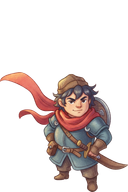
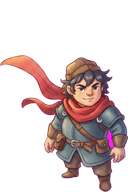
Mara and Ilya with empty hands; walks redone when a look changes
Held items show what a player wields, so the walking looks no longer
carry a painted staff, sword or shield. Both anchors were painted again
from their own pictures with only that change (`npm run anchors --
--edit`, which sends the anchor as the subject rather than as a style
reference). The walk painter remembers which picture each look's walks
were made from and walks it again when that picture changes; the hand
finder fingerprints pixels, so updated shipped art is looked at again.

Claude-Session: https://claude.ai/code/session_01R4ALLanxqUEA9N9eW9ppqX

diff --git a/packages/server/src/tools/generate-anchors.ts b/packages/server/src/tools/generate-anchors.ts
@@ -5,6 +5,8 @@
 //   npm run anchors -- --limit 5
 //   npm run anchors -- --process-only   redo post-processing, no generation
 //   npm run anchors -- --model gemini-3.1-flash-image   (default: the model chosen in God's View)
+//   npm run anchors -- --only player-mara --edit "empty hands, no staff"
+//       paints an existing anchor again from its own picture with one change
 //
 // The provider's image is kept in raw/; the game copy next to it has the key
 // background removed (sprites) or is made seamless (tiles, with a 4x4 preview
@@ -18,7 +20,7 @@ import { ANCHORS } from '../assets/anchors.ts';
 import { BIOME_KIT, type KitAsset } from '../assets/kit.ts';
 import { GeminiImageProvider } from '../assets/gemini.ts';
 import { makeSeamless, removeKeyBackground, tileGrid } from '../assets/postprocess.ts';
-import { STYLE_VERSION, buildPrompt } from '../assets/style.ts';
+import { BASE_PROMPT, SPRITE_FRAMING, STYLE_VERSION, buildPrompt } from '../assets/style.ts';
 import { savedImageModel } from './saved-model.ts';
 import sharp from 'sharp';
 
@@ -33,6 +35,8 @@ const dryRun = flag('dry-run');
 const force = flag('force');
 const processOnly = flag('process-only');
 const only = value('only');
+// One change to an existing anchor, keeping everything else about it.
+const edit = value('edit');
 const limit = Number(value('limit') ?? Infinity);
 // Approximate price per image; confirm against the provider's price page.
 const pricePerImage = Number(process.env.IMAGE_PRICE_USD ?? 0.04);
@@ -71,24 +75,28 @@ if (processOnly) {
 let made = 0;
 for (const anchor of selected) {
   const raw = resolve(rawDir, `${anchor.id}.png`);
-  if (!force && (await exists(raw))) {
+  if (!force && !edit && (await exists(raw))) {
     console.log(`skip ${anchor.id} (exists; --force to redo)`);
     continue;
   }
-  const prompt = buildPrompt(anchor);
+  const prompt = edit ? editPrompt(edit) : buildPrompt(anchor);
   try {
     // Kit items are painted beside their biome's approved anchors (the raw
     // provider images, magenta background included) so the style matches.
-    const references = await Promise.all((anchor.references ?? []).map(async (ref) => ({
-      mimeType: 'image/png', data: await readFile(resolve(rawDir, `${ref}.png`)),
-    })));
-    const image = await provider.generate({ prompt, references });
+    // An edit is painted from the anchor's own picture instead.
+    const references = edit
+      ? [{ mimeType: 'image/png', data: await readFile(raw) }]
+      : await Promise.all((anchor.references ?? []).map(async (ref) => ({
+        mimeType: 'image/png', data: await readFile(resolve(rawDir, `${ref}.png`)),
+      })));
+    const image = await provider.generate({ prompt, references, ...(edit ? { edit: true } : {}) });
     await writeFile(raw, image.data);
     await writeFile(resolve(outDir, `${anchor.id}.json`), JSON.stringify({
       id: anchor.id,
       description: anchor,
       prompt,
-      references: anchor.references,
+      references: edit ? [`${anchor.id} (before)`] : anchor.references,
+      ...(edit ? { edit } : {}),
       provider: provider.id,
       model: provider.model,
       styleVersion: STYLE_VERSION,
@@ -115,6 +123,16 @@ async function processAnchor(anchor: (typeof ALL)[number], raw: Buffer): Promise
   const { png, clean } = await removeKeyBackground(raw, undefined, { holes: anchor.kind === 'prop' || anchor.kind === 'effect' });
   await writeFile(out, png);
   if (!clean) console.warn(`warning ${anchor.id}: background is not one flat colour; check it or regenerate`);
+}
+
+/** Paints the picture given again, the same in every way but one. */
+function editPrompt(change: string): string {
+  return [
+    BASE_PROMPT,
+    SPRITE_FRAMING,
+    'Paint the character in the reference picture again, exactly the same: face, hair, clothes, colours, proportions, pose, size and framing.',
+    `Change only this: ${change}.`,
+  ].join('\n');
 }
 
 async function cropCenter(png: Buffer, share: number): Promise<Buffer> {

diff --git a/packages/server/src/hand-finder.ts b/packages/server/src/hand-finder.ts
@@ -1,3 +1,4 @@
+import { createHash } from 'node:crypto';
 import { mkdir, readFile, writeFile } from 'node:fs/promises';
 import { resolve } from 'node:path';
 import type { ArtPoints, ArtPointsManifest } from '@co-mmo/shared';
@@ -35,7 +36,7 @@ export interface HandFinderOptions {
 }
 
 interface Found extends ArtPoints {
-  /** The file the points were found in. */
+  /** The file the points were found in, and a fingerprint of its pixels. */
   from: string;
 }
 
@@ -89,11 +90,13 @@ export class HandFinder {
   private async run(): Promise<void> {
     await this.load();
     for (const source of await this.options.sources()) {
-      if (this.found[source.id]?.from === source.file) continue;
-      const model = this.options.model();
-      if (!model || this.options.paused()) return;
       const picture = await source.read().catch(() => undefined);
       if (!picture) continue;
+      // The same file name can hold a new picture (shipped art updated with the game), so its pixels count too.
+      const from = `${source.file}#${createHash('sha1').update(picture).digest('hex').slice(0, 12)}`;
+      if (this.found[source.id]?.from === from) continue;
+      const model = this.options.model();
+      if (!model || this.options.paused()) return;
       const pictures = source.frames > 1 ? await stripFrames(picture, source.frames) : [picture];
       const points = [];
       for (const frame of pictures) {
@@ -102,8 +105,8 @@ export class HandFinder {
         points.push(point ?? null);
       }
       this.found[source.id] = source.kind === 'hands'
-        ? { from: source.file, hands: points }
-        : { from: source.file, ...(points[0] ? { grip: points[0] } : {}) };
+        ? { from, hands: points }
+        : { from, ...(points[0] ? { grip: points[0] } : {}) };
       await mkdir(this.options.artDir, { recursive: true });
       await writeFile(this.file, JSON.stringify(this.found, null, 2));
     }

diff --git a/packages/server/test/held.test.ts b/packages/server/test/held.test.ts
@@ -46,7 +46,7 @@ describe('the hand finder', () => {
   it('finds a hand in every walk frame and an item\'s grip once, and looks again only at pictures painted again', async () => {
     const artDir = await mkdtemp(join(tmpdir(), 'co-mmo-points-'));
     const strip = await picture(256, 192);
-    const sword = await picture(128, 128);
+    let sword = await picture(128, 128);
     const eye = fakeEye(['{"point": [800, 600]}', '{"point": null}', '{"point": [700, 300]}', '{"point": [810, 610]}', '{"point": [820, 620]}']);
     let walkFile = 'wished-art/walks/player-mara-walk-front.png';
     const spent: number[] = [];
@@ -69,7 +69,7 @@ describe('the hand finder', () => {
     });
     expect(eye.asked[2]!.messages[0]!.content).toMatch(/handle/);
     expect(spent).toHaveLength(3);
-    expect(JSON.parse(await readFile(join(artDir, 'points.json'), 'utf8'))['item-wooden-sword'].from).toBe('art/item-wooden-sword.png');
+    expect(JSON.parse(await readFile(join(artDir, 'points.json'), 'utf8'))['item-wooden-sword'].from).toMatch(/^art\/item-wooden-sword\.png#[0-9a-f]{12}$/);
 
     // Nothing new: nothing asked. The walk painted again: its frames are looked at again.
     await finder.start();
@@ -78,6 +78,10 @@ describe('the hand finder', () => {
     await finder.start();
     expect(eye.asked).toHaveLength(5);
     expect((await finder.manifest())['player-mara-walk-front']).toEqual({ hands: [[0.61, 0.81], [0.62, 0.82]] });
+    // A new picture under the same file name (shipped art updated with the game) is looked at again too.
+    sword = await picture(64, 128);
+    await finder.start();
+    expect(eye.asked).toHaveLength(6);
 
     // Kept on disk for the next start.
     const again = new HandFinder({ artDir, model: () => undefined, sources: async () => [], paused: () => false, spend: () => {} });

diff --git a/packages/server/src/assets/anchors.ts b/packages/server/src/assets/anchors.ts
@@ -111,15 +111,16 @@ export const ANCHORS: (AssetDescription & { id: string; references?: string[] })
     id: 'player-mara', name: 'Mara', kind: 'player', biome: 'any',
     silhouetteHook: 'oversized floppy wizard hat with a drooping tip',
     body: 'small, 3 heads tall, round face, cheerful stance, facing the viewer',
-    materials: ['cloth', 'wood'], colors: { main: 'moss green', secondary: 'cream', accent: 'rose hat band' },
-    details: ['short russet bob', 'crooked wooden staff with a leaf sprouting at the top', 'brown boots'], mood: 'curious, warm',
+    materials: ['cloth'], colors: { main: 'moss green', secondary: 'cream', accent: 'rose hat band' },
+    // Empty hands: what a player wears and wields is shown in their hand by the game (held items).
+    details: ['short russet bob', 'empty hands, carrying nothing', 'brown boots'], mood: 'curious, warm',
   },
   {
     id: 'player-ilya', name: 'Ilya', kind: 'player', biome: 'any',
     silhouetteHook: 'long red scarf trailing behind',
     body: 'small, 3 heads tall, sturdy build, confident stance, facing the viewer',
-    materials: ['leather', 'iron'], colors: { main: 'slate blue', secondary: 'brown leather', accent: 'red scarf' },
-    details: ['short sword at the hip', 'messy dark hair', 'round shield on the back'], mood: 'brave, playful',
+    materials: ['leather', 'cloth'], colors: { main: 'slate blue', secondary: 'brown leather', accent: 'red scarf' },
+    details: ['messy dark hair', 'empty hands and no weapon, shield or pack', 'leather belt with a small pouch'], mood: 'brave, playful',
   },
   {
     id: 'item-bible', name: 'The Bible', kind: 'item', biome: 'any',

diff --git a/packages/server/src/walk-painter.ts b/packages/server/src/walk-painter.ts
@@ -1,3 +1,4 @@
+import { createHash } from 'node:crypto';
 import { mkdir, readFile, rm, writeFile } from 'node:fs/promises';
 import { resolve } from 'node:path';
 import sharp from 'sharp';
@@ -97,9 +98,19 @@ export class WalkPainter {
     // Nothing can be painted without an image model; the Art tab says so, so the log stays quiet.
     if (!this.options.provider()) return;
     const shipped = await this.options.shipped();
+    const madeFrom = JSON.parse(await readFile(resolve(this.dir, 'looks.json'), 'utf8').catch(() => '{}')) as Record<string, string>;
     for (const look of WALKING_LOOKS) {
-      if (WALK_DIRECTIONS.every((d) => shipped[walkArt(look, d)] || this.painted[walkArt(look, d)])) continue;
-      if (!(await this.paintWalker(this.anchorWalker(look), 'start-up'))) return;
+      const walker = this.anchorWalker(look);
+      // A look whose approved picture changed (say, painted again with empty hands) walks again from the new one.
+      const stamp = createHash('sha1').update(await walker.reference()).digest('hex').slice(0, 12);
+      const painted = WALK_DIRECTIONS.some((d) => this.painted[walkArt(look, d)]);
+      const changed = painted && madeFrom[look] !== stamp;
+      if (changed) await this.forget(walker, WALK_DIRECTIONS, true);
+      else if (WALK_DIRECTIONS.every((d) => shipped[walkArt(look, d)] || this.painted[walkArt(look, d)])) continue;
+      if (!(await this.paintWalker(walker, 'start-up', changed))) return;
+      madeFrom[look] = stamp;
+      await mkdir(this.dir, { recursive: true });
+      await writeFile(resolve(this.dir, 'looks.json'), JSON.stringify(madeFrom, null, 2));
     }
   }
 

diff --git a/packages/server/test/walk-painter.test.ts b/packages/server/test/walk-painter.test.ts
@@ -82,7 +82,20 @@ describe('walk painter', () => {
     expect(Object.keys(again.manifest())).toHaveLength(8);
     expect(spent).toHaveLength(15);
     expect(JSON.parse(await readFile(join(artDir, 'walks', 'manifest.json'), 'utf8'))).toEqual(manifest);
-  }, 60_000);
+
+    // Mara's approved picture is painted again (say, with empty hands): she walks again from it, Ilya keeps his walks.
+    await writeFile(join(anchorDir, 'raw', 'player-mara.png'), await picture(300, 300, walker(150, 270)));
+    const changed = new WalkPainter({
+      provider: () => images, video: () => video, overBudget: () => false,
+      spend: (usd) => spent.push(usd), spendVideo: (usd) => spent.push(usd),
+      anchorDir, artDir, shipped: async () => ({}), toFrames: frames,
+    });
+    await changed.start();
+    expect(clips).toHaveLength(12);
+    expect(clips.slice(8).every((c) => !c.prompt.includes('Ilya'))).toBe(true);
+    expect(changed.manifest()[walkArt('player-mara', 'front')]!.file).toContain('?v=');
+    expect(changed.manifest()[walkArt('player-ilya', 'front')]!.file).not.toContain('?v=');
+  }, 180_000);
 
   it('paints nothing without a video model, and keeps the views it paid for', async () => {
     const root = await mkdtemp(join(tmpdir(), 'walks-'));

diff --git a/packages/server/src/assets/walk-video.ts b/packages/server/src/assets/walk-video.ts
@@ -28,8 +28,7 @@ export interface Carried {
 
 /** What the walking looks carry; a wished look adds its own line. */
 export const LOOK_GEAR: Record<string, Carried[]> = {
-  'player-mara': [{ item: 'crooked wooden staff with a sprouting leaf', side: 'right' }],
-  'player-ilya': [{ item: 'short sword at the hip', side: 'left' }, { item: 'round shield', side: 'back' }],
+  // The walking looks carry nothing: their weapon or charm is drawn in hand by the game (held items).
 };
 
 const SEEN: Record<WalkDirection, string> = {

diff --git a/packages/server/src/assets/provider.ts b/packages/server/src/assets/provider.ts
@@ -10,6 +10,8 @@ export interface ImageRequest {
   prompt: string;
   /** Reference images (anchors, a base pose) the result must match in style. */
   references?: GeneratedImage[];
+  /** The references show the subject itself, to be painted again with a change, not just the style. */
+  edit?: boolean;
   /** Width to height, such as "4:5"; square when left out. */
   aspectRatio?: string;
   /** Long side: "1K" (about 1024 px, the default), "2K" or "4K", for models that offer it. */

diff --git a/packages/server/src/assets/gemini.ts b/packages/server/src/assets/gemini.ts
@@ -31,7 +31,7 @@ export class GeminiImageProvider implements ImageProvider {
     for (const ref of request.references ?? []) {
       parts.push({ inline_data: { mime_type: ref.mimeType, data: ref.data.toString('base64') } });
     }
-    if (request.references?.length) {
+    if (request.references?.length && !request.edit) {
       parts.push({ text: REFERENCE_NOTE });
     }
     parts.push({ text: request.prompt });
